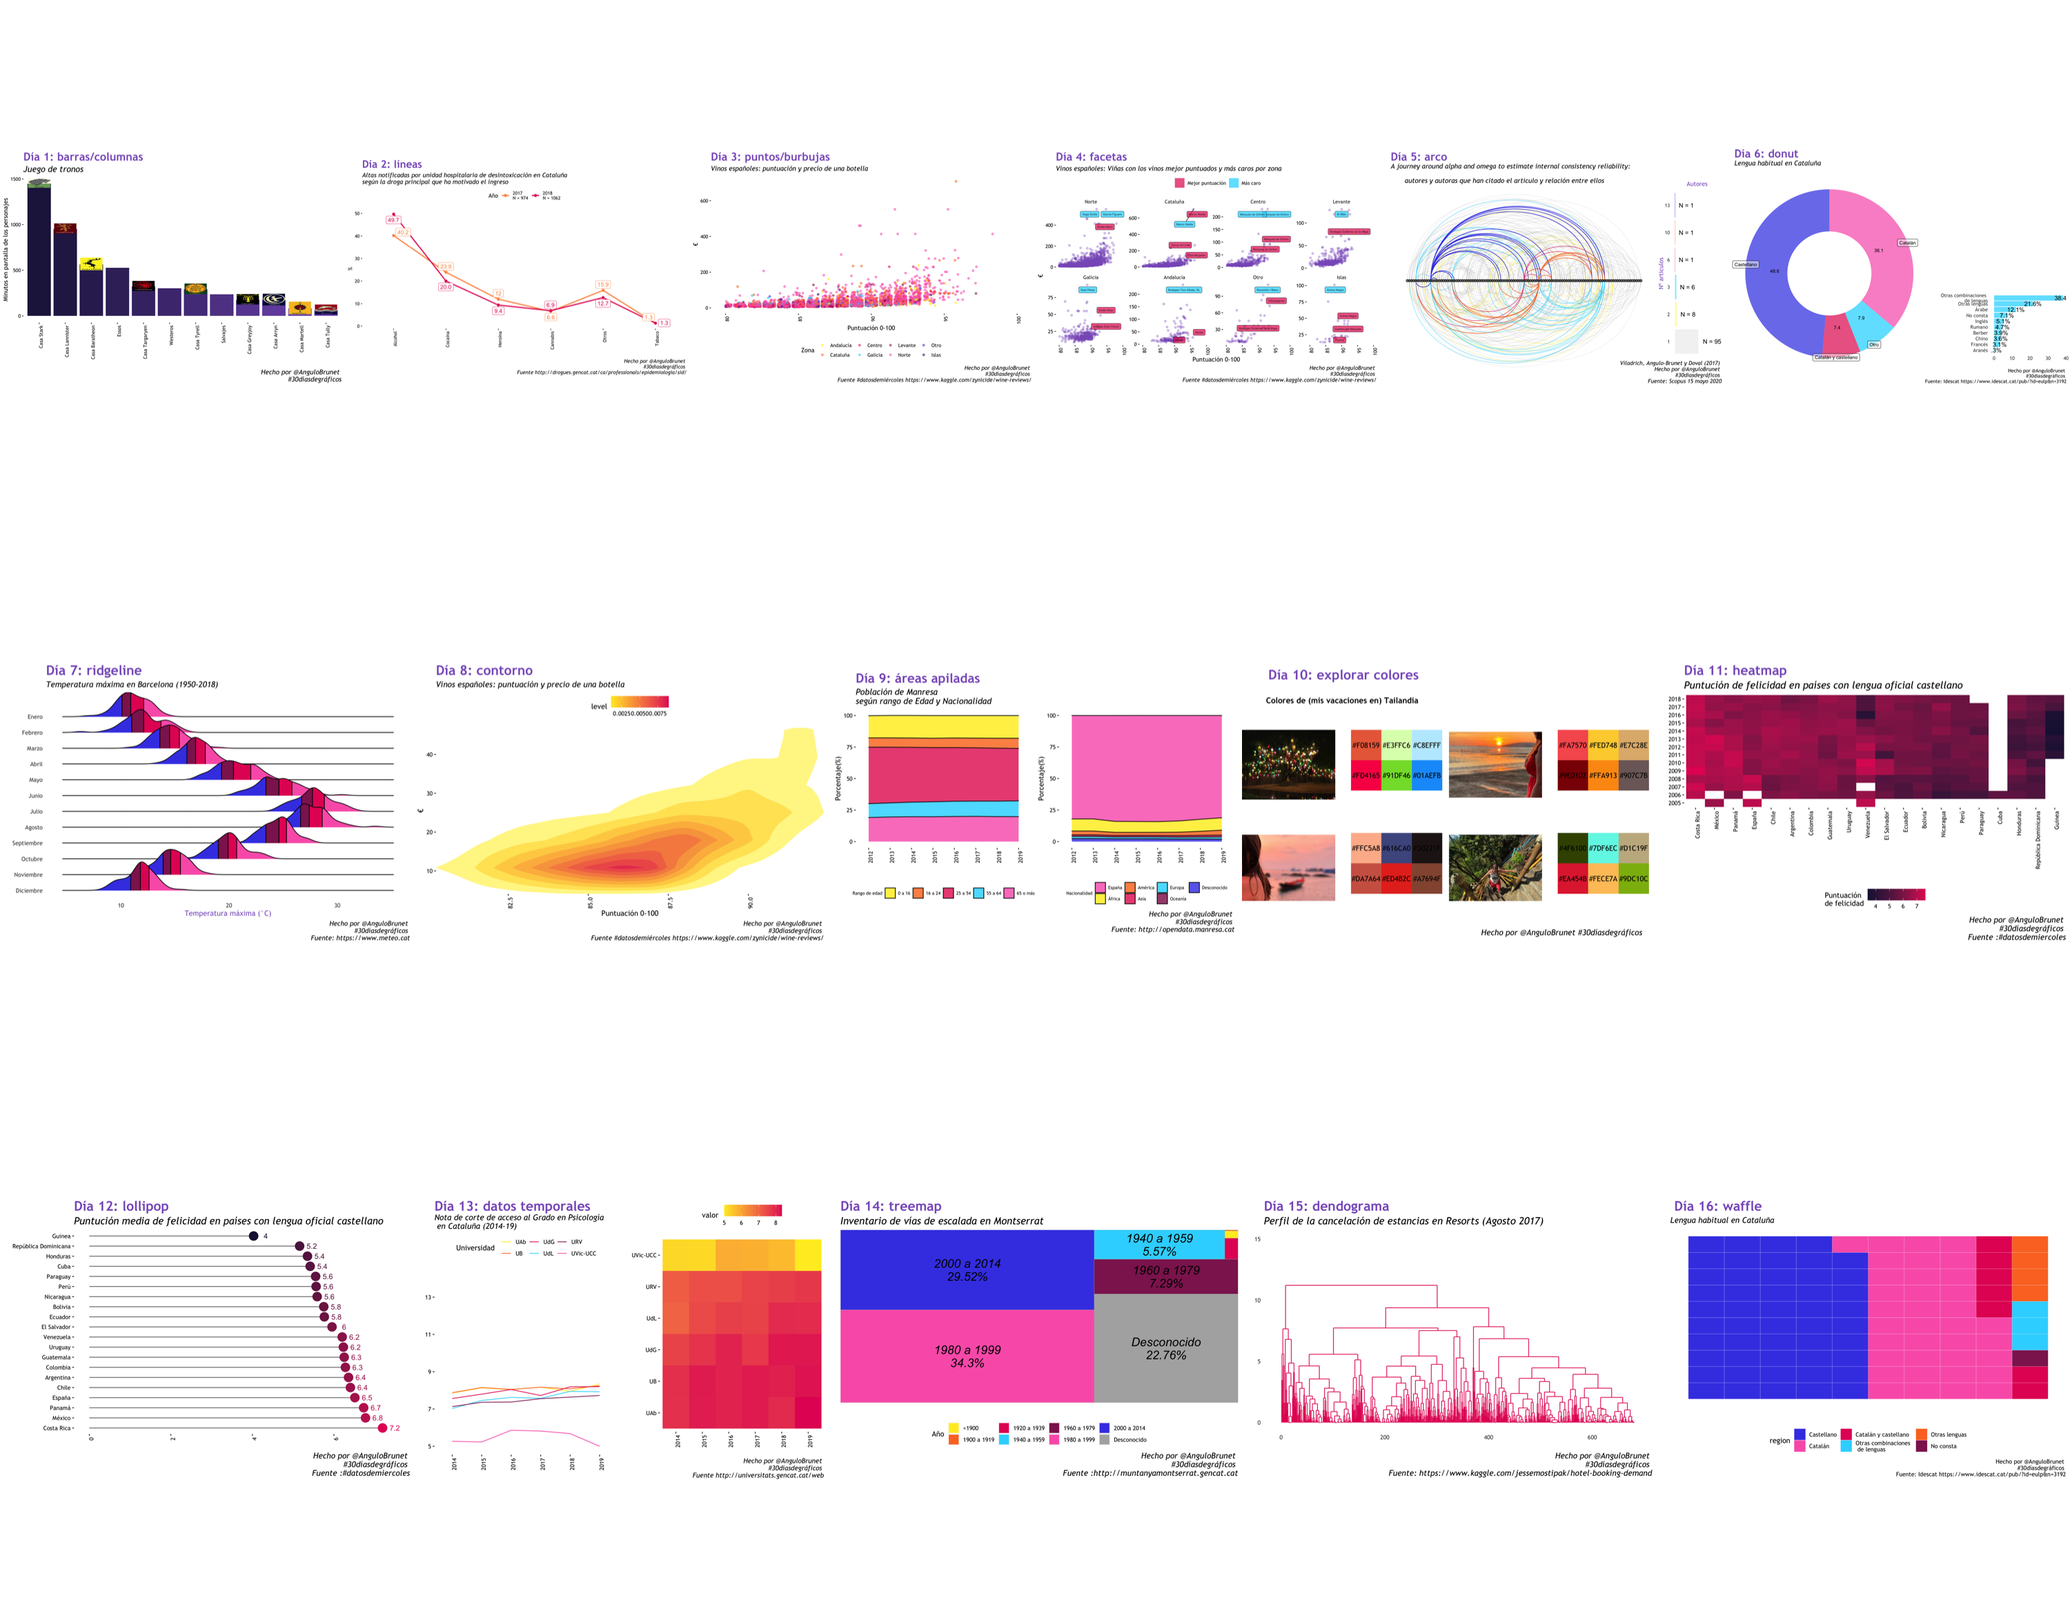
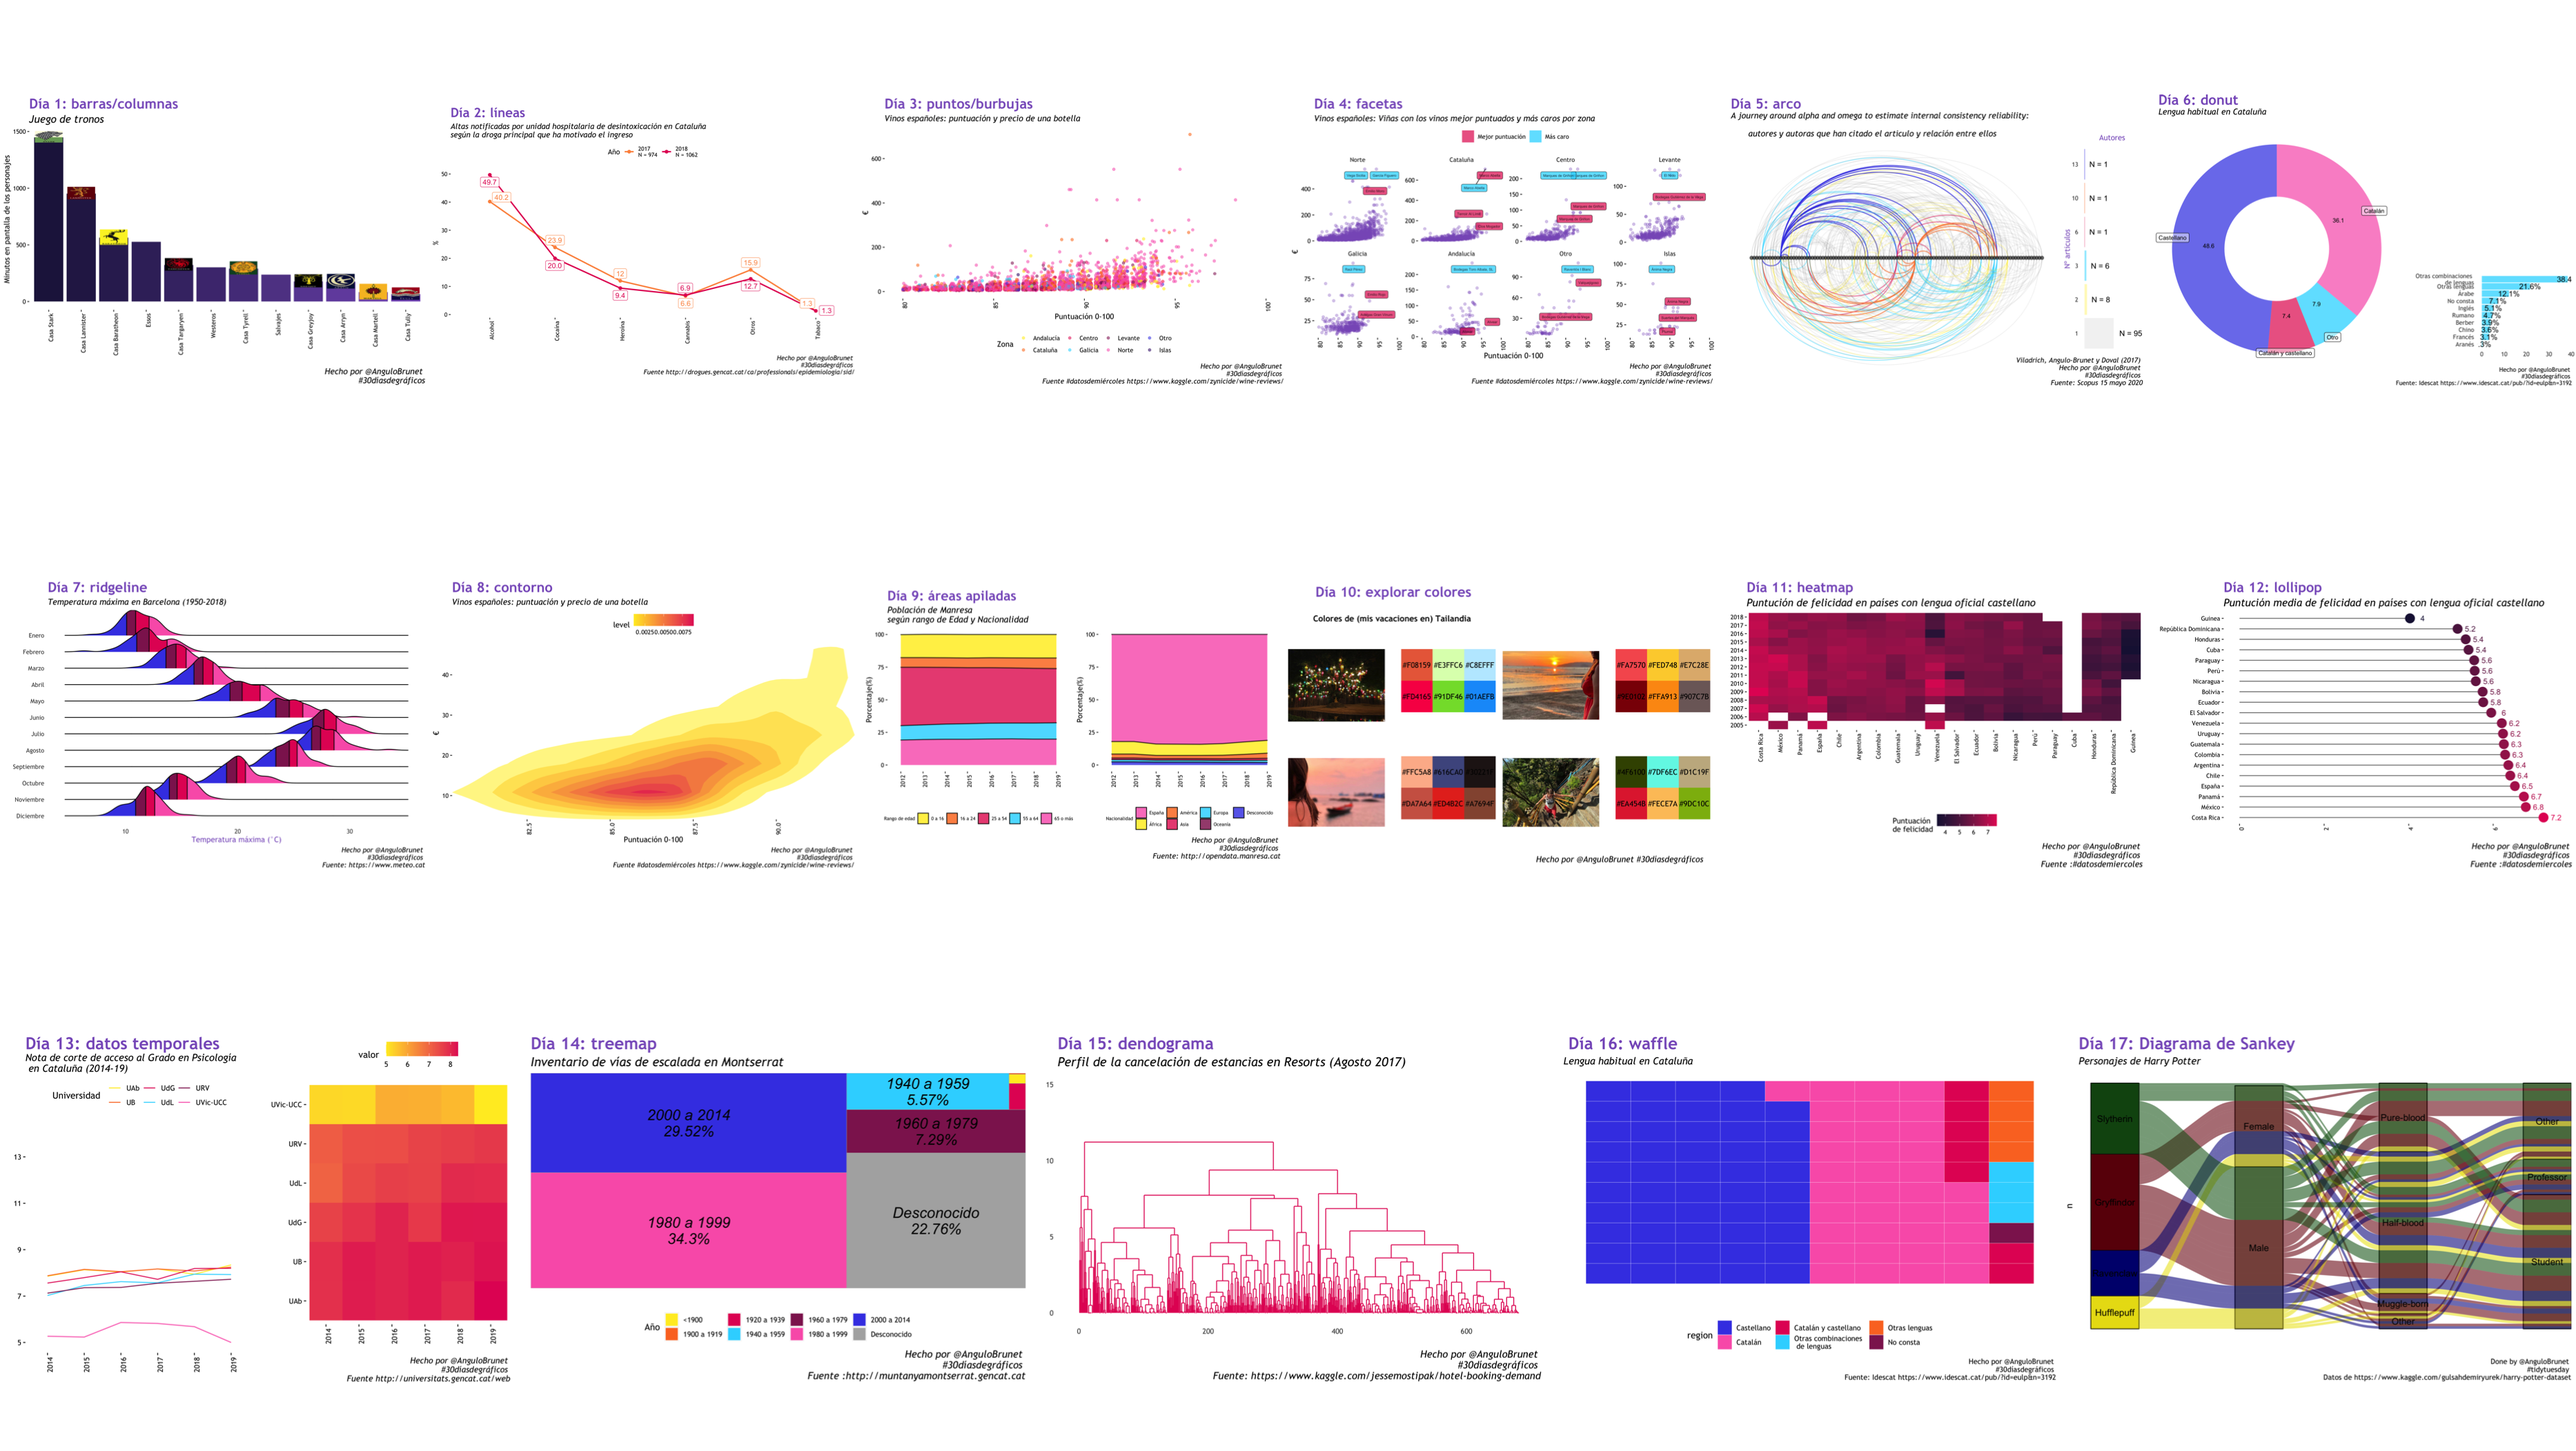
day 17

diff --git a/00_30diasDeGraficos/README.md b/00_30diasDeGraficos/README.md
@@ -1,6 +1,11 @@
 
 
 
+![DAY17](https://github.com/AnguloB/datosdemiercoles/blob/master/00_30diasDeGraficos/17_sankey/17_sankey.png)
+
+
+ La sintaxis puede encontrarse [aqui](https://github.com/AnguloB/datosdemiercoles/blob/master/00_30diasDeGraficos/117_sankey/17_sankey.png)
+
 
 ![DAY16](https://github.com/AnguloB/datosdemiercoles/blob/master/00_30diasDeGraficos/16_waffle/16_waffle.png)
 
